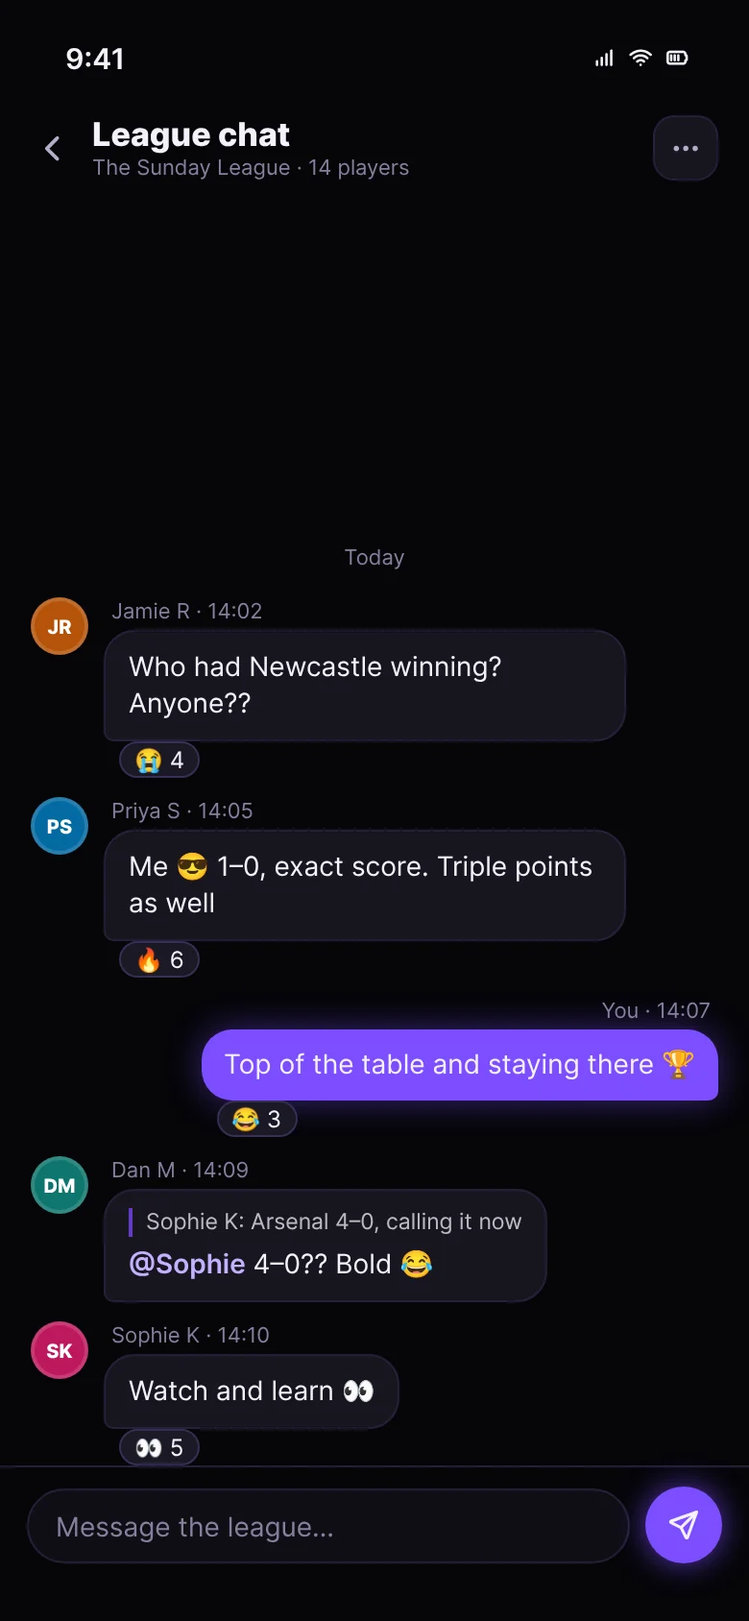
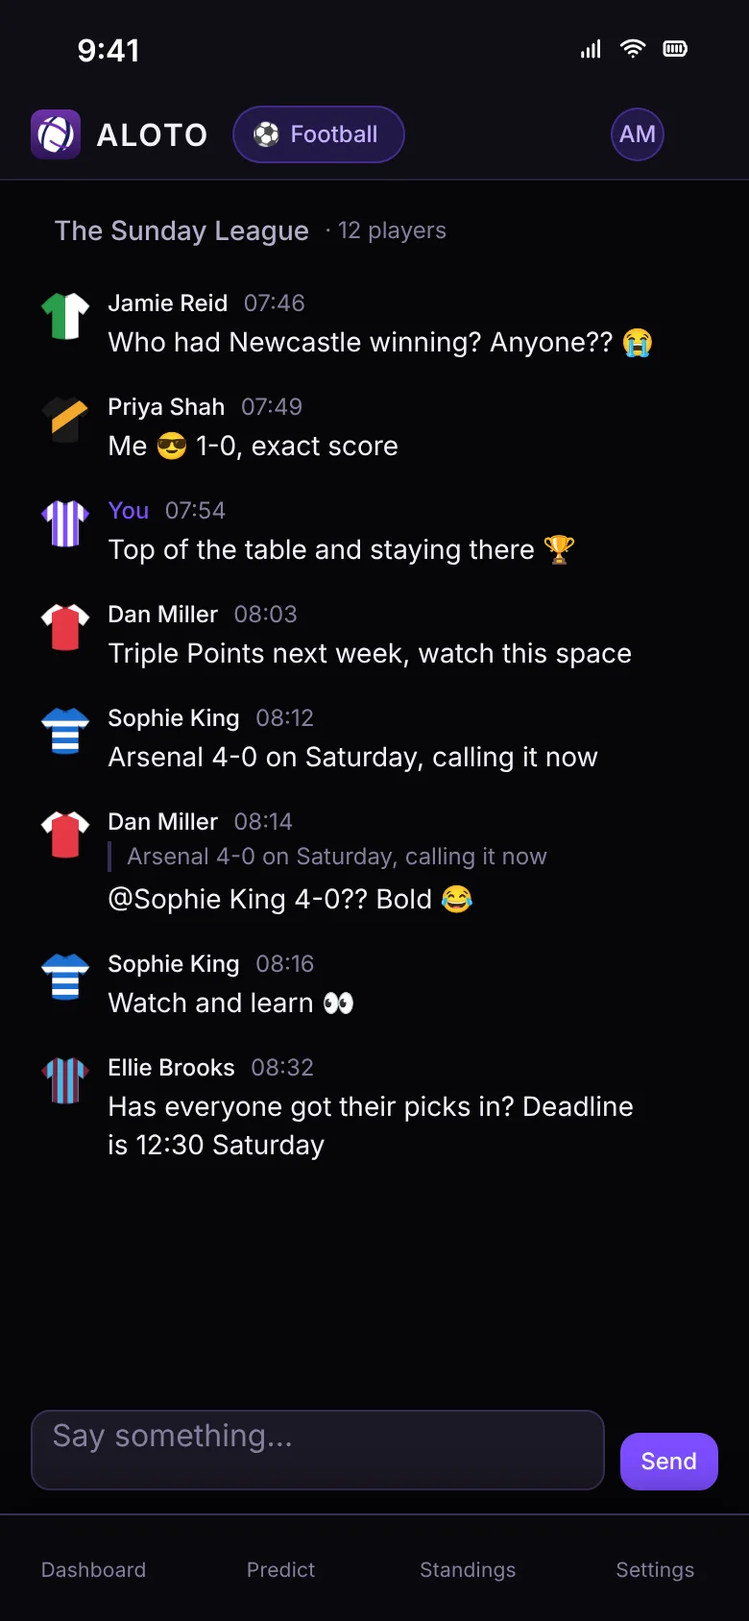
Website phone screens are now the real app rendered with sample data; lock screen matches the Live Activity; guide text corrected to match the app
Claude-Session: https://claude.ai/code/session_011trQt5Urxmf4hy4HNrPvek

diff --git a/help/football.html b/help/football.html
@@ -39,7 +39,7 @@
   <p class="lead">Predictions, points, Triple Points, the final table and cups.</p>
   <nav class="toc-pills" aria-label="On this page"><a href="#predict">Making your predictions</a><a href="#points">Points and bonuses</a><a href="#triple">Triple Points</a><a href="#season">Season predictions</a><a href="#cups">Cup competitions</a><a href="#standings">Standings and live scores</a></nav>
 </div></section>
-<section class="section"><div class="wrap guides-shot"><article class="guide shot reveal" id="predict"><div class="g-text"><h3><span class="n">01</span>Making your predictions</h3><p class="sum">Predict the score of every fixture in the gameweek. Each fixture locks at its own kick-off, not at one weekly deadline.</p><ol><li><b>Open the gameweek.</b> Predict &rarr; My Predictions. The current gameweek is shown first.</li><li><b>Enter scores.</b> Type a score for each fixture. Do some now and the rest later.</li><li><b>Save.</b> Tap Save. You can change any fixture until it kicks off.</li><li><b>See how everyone did.</b> Predict &rarr; Gameweek Results, once fixtures have kicked off.</li></ol><dl><div><dt>Hidden until kick-off</dt><dd>Nobody sees your prediction before the fixture locks. Not other players, not your admin.</dd></div><div><dt>Missed one?</dt><dd>If Saturday&rsquo;s early game has started, you can still predict Sunday&rsquo;s.</dd></div></dl></div><div class="g-shot"><div class="phone "><img src="/img/predict.webp" alt="Making your predictions in the ALOTO app" width="390" height="844" loading="lazy"></div></div></article><article class="guide shot reveal" id="points"><div class="g-text"><h3><span class="n">02</span>Points and bonuses</h3><p class="sum">Points for the right result, more for the exact score, and bonuses for a perfect gameweek. Your admin sets the values, so check your competition&rsquo;s Scoring for exact numbers.</p><dl><div><dt>Correct result</dt><dd>You called the win, draw or loss.</dd></div><div><dt>Exact score</dt><dd>Both scores right. Added on top of the result points.</dd></div><div><dt>Full house: results</dt><dd>Every result in the gameweek right. You must have predicted every fixture.</dd></div><div><dt>Full house: scores</dt><dd>Every score exactly right. Rarer, and worth more.</dd></div><div><dt>Voided fixture</dt><dd>A postponed fixture your admin voids counts for nothing and doesn&rsquo;t spoil a full house.</dd></div></dl><p class="tip">A common setup is 2 points for the result and 3 more for the exact score. Yours may differ.</p></div><div class="g-shot"><div class="phone "><img src="/img/results.webp" alt="Points and bonuses in the ALOTO app" width="390" height="844" loading="lazy"></div></div></article><article class="guide shot reveal" id="triple"><div class="g-text"><h3><span class="n">03</span>Triple Points</h3><p class="sum">A chip that triples everything you score in one football gameweek, bonuses included. You get two a season: one before 31 December and one after.</p><ol><li><b>Predict every fixture.</b> The chip only unlocks once the whole gameweek is predicted.</li><li><b>Play it.</b> Predict &rarr; My Predictions. Tap Triple Points 1 or Triple Points 2 before the gameweek starts.</li><li><b>Confirm.</b> It can&rsquo;t be undone, and it uses that half of the season&rsquo;s chip.</li></ol><dl><div><dt>Blocked gameweeks</dt><dd>Your admin can block Triple Points for a gameweek.</dd></div><div><dt>Use it or lose it</dt><dd>An unplayed chip scores nothing when its half of the season ends.</dd></div></dl></div><div class="g-shot"><div class="phone "><img src="/img/predict.webp" alt="Triple Points in the ALOTO app" width="390" height="844" loading="lazy"></div></div></article><article class="guide shot reveal" id="season"><div class="g-text"><h3><span class="n">04</span>Season predictions</h3><p class="sum">Calls you make once, before the season, scored at the end. Everything stays sealed until the deadline, then everyone can compare.</p><ol><li><b>Open them.</b> Predict &rarr; Season.</li><li><b>Final league table.</b> Drag every team into the order you think they&rsquo;ll finish.</li><li><b>Season questions.</b> Pick an answer for each one, such as league winner or Super Bowl winner.</li><li><b>Beat the deadline.</b> The countdown is on your Dashboard.</li></ol><p class="tip">Season points go into a separate Season column, added to your total at the end of the season.</p></div><div class="g-shot"><div class="phone "><img src="/img/season.webp" alt="Season predictions in the ALOTO app" width="390" height="844" loading="lazy"></div></div></article><article class="guide shot reveal" id="cups"><div class="g-text"><h3><span class="n">05</span>Cup competitions</h3><p class="sum">A knockout played alongside the league. You don&rsquo;t predict separately: your normal gameweek predictions count for both.</p><dl><div><dt>How a tie works</dt><dd>You&rsquo;re drawn against another player for a gameweek. Whoever scores more goes through.</dd></div><div><dt>Level scores</dt><dd>A replay in the next gameweek.</dd></div><div><dt>Group + Knockout</dt><dd>A round-robin group stage first, then the top players go into the bracket.</dd></div></dl><p class="tip">Follow the draw under Standings &rarr; Cup.</p></div><div class="g-shot"><div class="phone "><img src="/img/cup.webp" alt="Cup competitions in the ALOTO app" width="390" height="844" loading="lazy"></div></div></article><article class="guide shot reveal" id="standings"><div class="g-text"><h3><span class="n">06</span>Standings and live scores</h3><p class="sum">Standings shows where you are while the games are on, with arrows for who is moving up and down.</p><ol><li><b>Overall.</b> Standings &rarr; Overall for the season-long table.</li><li><b>Monthly.</b> Standings &rarr; Monthly, so somebody wins every month.</li><li><b>Cup.</b> Standings &rarr; Cup for the draw, ties and results.</li><li><b>Season.</b> Standings &rarr; Season for the season predictions.</li></ol><dl><div><dt>Live points</dt><dd>Added as goals go in. They become final when the result is confirmed.</dd></div><div><dt>Lock screen</dt><dd>On iPhone, your live score, points and position show on the lock screen.</dd></div></dl></div><div class="g-shot"><div class="phone "><img src="/img/table.webp" alt="Standings and live scores in the ALOTO app" width="390" height="844" loading="lazy"></div></div></article></div></section>
+<section class="section"><div class="wrap guides-shot"><article class="guide shot reveal" id="predict"><div class="g-text"><h3><span class="n">01</span>Making your predictions</h3><p class="sum">Predict the score of every fixture in the gameweek. Each fixture locks at its own kick-off, not at one weekly deadline.</p><ol><li><b>Open the gameweek.</b> Predict &rarr; My Predictions. The current gameweek is shown first.</li><li><b>Enter scores.</b> Type a score for each fixture. Do some now and the rest later.</li><li><b>Save.</b> Tap Save. You can change any fixture until it kicks off.</li><li><b>See how everyone did.</b> Predict &rarr; Gameweek Results, once fixtures have kicked off.</li></ol><dl><div><dt>Hidden until kick-off</dt><dd>Nobody sees your prediction before the fixture locks. Not other players, not your admin.</dd></div><div><dt>Missed one?</dt><dd>If Saturday&rsquo;s early game has started, you can still predict Sunday&rsquo;s.</dd></div></dl></div><div class="g-shot"><div class="phone "><img src="/img/predict.webp" alt="Making your predictions in the ALOTO app" width="390" height="844" loading="lazy"></div></div></article><article class="guide shot reveal" id="points"><div class="g-text"><h3><span class="n">02</span>Points and bonuses</h3><p class="sum">Points for the right result, more for the exact score, and bonuses for a perfect gameweek. Your admin sets the values, so check your competition&rsquo;s Scoring for exact numbers.</p><dl><div><dt>Correct result</dt><dd>You called the win, draw or loss.</dd></div><div><dt>Exact score</dt><dd>Both scores right. Added on top of the result points.</dd></div><div><dt>Full house: results</dt><dd>Every result in the gameweek right. You must have predicted every fixture.</dd></div><div><dt>Full house: scores</dt><dd>Every score exactly right. Rarer, and worth more.</dd></div><div><dt>Voided fixture</dt><dd>A postponed fixture your admin voids counts for nothing and doesn&rsquo;t spoil a full house.</dd></div></dl><p class="tip">A common setup is 2 points for the result and 3 more for the exact score. Yours may differ.</p></div><div class="g-shot"><div class="phone "><img src="/img/results.webp" alt="Points and bonuses in the ALOTO app" width="390" height="844" loading="lazy"></div></div></article><article class="guide shot reveal" id="triple"><div class="g-text"><h3><span class="n">03</span>Triple Points</h3><p class="sum">A chip that triples everything you score in one football gameweek, bonuses included. You get two a season: one before 31 December and one after.</p><ol><li><b>Predict every fixture.</b> The chip only unlocks once the whole gameweek is predicted.</li><li><b>Play it.</b> Predict &rarr; My Predictions. Tap Triple Points 1 or Triple Points 2 before the gameweek starts.</li><li><b>Confirm.</b> It can&rsquo;t be undone, and it uses that half of the season&rsquo;s chip.</li></ol><dl><div><dt>Blocked gameweeks</dt><dd>Your admin can block Triple Points for a gameweek.</dd></div><div><dt>Use it or lose it</dt><dd>An unplayed chip scores nothing when its half of the season ends.</dd></div></dl></div><div class="g-shot"><div class="phone "><img src="/img/predict.webp" alt="Triple Points in the ALOTO app" width="390" height="844" loading="lazy"></div></div></article><article class="guide shot reveal" id="season"><div class="g-text"><h3><span class="n">04</span>Season predictions</h3><p class="sum">Calls you make once, before the season, scored at the end. Everything stays sealed until the deadline, then everyone can compare.</p><ol><li><b>Open them.</b> Predict &rarr; Season.</li><li><b>Final league table.</b> Choose a team for each place, from 1st to last. Clear all starts again.</li><li><b>Season questions.</b> Pick an answer for each one, such as league winner or Super Bowl winner.</li><li><b>Beat the deadline.</b> The countdown is on your Dashboard.</li></ol><p class="tip">Season points go into a separate Season column, added to your total at the end of the season.</p></div><div class="g-shot"><div class="phone "><img src="/img/season.webp" alt="Season predictions in the ALOTO app" width="390" height="844" loading="lazy"></div></div></article><article class="guide shot reveal" id="cups"><div class="g-text"><h3><span class="n">05</span>Cup competitions</h3><p class="sum">A knockout played alongside the league. You don&rsquo;t predict separately: your normal gameweek predictions count for both.</p><dl><div><dt>How a tie works</dt><dd>You&rsquo;re drawn against another player for a gameweek. Whoever scores more goes through.</dd></div><div><dt>Level scores</dt><dd>A replay in the next gameweek.</dd></div><div><dt>Group + Knockout</dt><dd>A round-robin group stage first, then the top players go into the bracket.</dd></div></dl><p class="tip">Follow the draw under Standings &rarr; Cup.</p></div><div class="g-shot"><div class="phone "><img src="/img/cup.webp" alt="Cup competitions in the ALOTO app" width="390" height="844" loading="lazy"></div></div></article><article class="guide shot reveal" id="standings"><div class="g-text"><h3><span class="n">06</span>Standings and live scores</h3><p class="sum">Standings shows where you are while the games are on, with arrows for who is moving up and down.</p><ol><li><b>Overall.</b> Standings &rarr; Overall for the season-long table.</li><li><b>Monthly.</b> Standings &rarr; Monthly, so somebody wins every month.</li><li><b>Cup.</b> Standings &rarr; Cup for the draw, ties and results.</li><li><b>Season.</b> Standings &rarr; Season for the season predictions.</li></ol><dl><div><dt>Live points</dt><dd>Added as goals go in. They become final when the result is confirmed.</dd></div><div><dt>Lock screen</dt><dd>On iPhone, your live points and league position show on the lock screen while the gameweek is in play.</dd></div></dl></div><div class="g-shot"><div class="phone "><img src="/img/live.webp" alt="Standings and live scores in the ALOTO app" width="390" height="844" loading="lazy"></div></div></article></div></section>
 <section class="section alt"><div class="wrap">
   <div class="note-box reveal" style="max-width:860px;margin:0 auto">
     <h3>More help</h3>

diff --git a/help/nfl.html b/help/nfl.html
@@ -39,7 +39,7 @@
   <p class="lead">Weekly score picks, margin scoring and season questions.</p>
   <nav class="toc-pills" aria-label="On this page"><a href="#nfl">NFL picks</a><a href="#nfl-season">NFL season questions</a></nav>
 </div></section>
-<section class="section"><div class="wrap guides-shot"><article class="guide shot reveal" id="nfl"><div class="g-text"><h3><span class="n">01</span>NFL picks</h3><p class="sum">Predict the score of every game each week. Points for the right winner, more for each team score you get exactly, more the closer your winning margin is, and the most for the exact score.</p><ol><li><b>Switch to NFL.</b> Tap the sport chooser in the top bar.</li><li><b>Open the week.</b> Predict &rarr; This week.</li><li><b>Enter both scores.</b> The margin you&rsquo;re calling shows underneath, for example &ldquo;Kansas City by 7&rdquo;.</li><li><b>Save.</b> Each game locks at its own kick-off, from Thursday night to Monday.</li></ol><dl><div><dt>Scoring</dt><dd>Points add up. Right winner 2, plus 5 for each team whose score you get exactly, plus your margin: exact 12, within 2 is 10, within 4 is 8, within 7 is 6, within 10 is 4, within 14 is 2. An exact score is 24. Your league&rsquo;s own numbers are shown above the games.</dd></div><div><dt>Ties and overtime</dt><dd>Calling a tie that ends tied counts as the right winner. Final scores include overtime.</dd></div><div><dt>No chips</dt><dd>Triple Points and full house bonuses are football only.</dd></div></dl></div><div class="g-shot"><div class="phone "><img src="/img/nfl.webp" alt="NFL picks in the ALOTO app" width="390" height="844" loading="lazy"></div></div></article><article class="guide shot reveal" id="nfl-season"><div class="g-text"><h3><span class="n">02</span>NFL season questions</h3><p class="sum">Three questions are free in every NFL league. Others are added by an admin with Pro.</p><ol><li><b>Open them.</b> Predict &rarr; Season tab, in your NFL league.</li><li><b>Make your picks.</b> Choose a team for each question before the deadline.</li></ol><dl><div><dt>Free in every league</dt><dd>Super Bowl Winner, AFC Champion and NFC Champion.</dd></div><div><dt>With Pro</dt><dd>NFL MVP, the division winners, and questions your admin writes.</dd></div></dl></div><div class="g-shot"><div class="phone "><img src="/img/nflseason.webp" alt="NFL season questions in the ALOTO app" width="390" height="844" loading="lazy"></div></div></article></div></section>
+<section class="section"><div class="wrap guides-shot"><article class="guide shot reveal" id="nfl"><div class="g-text"><h3><span class="n">01</span>NFL picks</h3><p class="sum">Predict the score of every game each week. Points for the right winner, more for each team score you get exactly, more the closer your winning margin is, and the most for the exact score.</p><ol><li><b>Switch to NFL.</b> Tap the sport chooser in the top bar.</li><li><b>Open the week.</b> Predict &rarr; This week.</li><li><b>Enter both scores.</b> The margin you&rsquo;re calling shows underneath, for example &ldquo;Kansas City Chiefs by 7&rdquo;.</li><li><b>Save.</b> Each game locks at its own kick-off, from Thursday night to Monday.</li></ol><dl><div><dt>Scoring</dt><dd>Points add up. Right winner 2, plus 5 for each team whose score you get exactly, plus your margin: exact 12, within 2 is 10, within 4 is 8, within 7 is 6, within 10 is 4, within 14 is 2. An exact score is 24. Your league&rsquo;s own numbers are shown above the games.</dd></div><div><dt>Ties and overtime</dt><dd>Calling a tie that ends tied counts as the right winner. Final scores include overtime.</dd></div><div><dt>No chips</dt><dd>Triple Points and full house bonuses are football only.</dd></div></dl></div><div class="g-shot"><div class="phone "><img src="/img/nfl.webp" alt="NFL picks in the ALOTO app" width="390" height="844" loading="lazy"></div></div></article><article class="guide shot reveal" id="nfl-season"><div class="g-text"><h3><span class="n">02</span>NFL season questions</h3><p class="sum">Three questions are free in every NFL league. Others are added by an admin with Pro.</p><ol><li><b>Open them.</b> Predict &rarr; Season tab, in your NFL league.</li><li><b>Make your picks.</b> Choose a team for each question before the deadline.</li></ol><dl><div><dt>Free in every league</dt><dd>Super Bowl Winner, AFC Champion and NFC Champion.</dd></div><div><dt>With Pro</dt><dd>NFL MVP, the division winners, and questions your admin writes.</dd></div></dl></div><div class="g-shot"><div class="phone "><img src="/img/nflseason.webp" alt="NFL season questions in the ALOTO app" width="390" height="844" loading="lazy"></div></div></article></div></section>
 <section class="section alt"><div class="wrap">
   <div class="note-box reveal" style="max-width:860px;margin:0 auto">
     <h3>More help</h3>

diff --git a/index.html b/index.html
@@ -50,7 +50,7 @@
       <div class="phone p1"><img src="/img/predict.webp" alt="ALOTO predictions screen with scores entered for the gameweek" width="390" height="844" loading="eager"></div>
       <div class="phone p2"><img src="/img/dash.webp" alt="ALOTO dashboard showing first place, total points and a live match" width="390" height="844" loading="eager"></div>
       <div class="chip c1"><div class="l">Exact score</div><div class="v">2&ndash;1<small>+5 pts</small></div></div>
-      <div class="chip c2"><div class="l">League position</div><div class="v">1st<small class="up">&#9650;2</small></div></div>
+      <div class="chip c2"><div class="l">Your rank</div><div class="v">1st<small>of 12</small></div></div>
     </div>
   </div>
 </section>
@@ -109,7 +109,7 @@
 
 <section class="section"><div class="wrap">
   <div class="rail-wrap showcase reveal" data-rail><div class="tabs pills"><button type="button" aria-selected="true">Live scores</button><button type="button" aria-selected="false">League chat</button><button type="button" aria-selected="false">Cups</button></div><div class="rail slides" tabindex="0">
-    <article class="slide"><div class="slide-text"><h2>Live on your <span class="accent">lock screen</span></h2><p class="lead">Your score, live points and league position update as the match goes on, without opening the app.</p><ul class="ticks"><li><b>Live points</b> as each goal goes in</li><li><b>Your position</b> moving up and down the table</li><li><b>Your pick</b> next to the real score</li><li><b>Reminders</b> before your gameweek locks</li></ul></div><div class="split-media"><div class="glow"></div><div class="phone "><img src="/img/lock.webp" alt="ALOTO live score on an iPhone lock screen" width="390" height="844" loading="lazy"></div></div></article>
+    <article class="slide"><div class="slide-text"><h2>Live on your <span class="accent">lock screen</span></h2><p class="lead">Your live points, the gameweek and your league position update while the matches are on, without opening the app.</p><ul class="ticks"><li><b>Live points</b> as each goal goes in</li><li><b>Your position</b> moving up and down the table</li><li><b>Matches in play</b> counted on the card</li><li><b>Reminders</b> before your gameweek locks</li></ul></div><div class="split-media"><div class="glow"></div><div class="phone "><img src="/img/lock.webp" alt="ALOTO live score on an iPhone lock screen" width="390" height="844" loading="lazy"></div></div></article>
     <article class="slide"><div class="slide-text"><h2>The group chat, <span class="accent">where it belongs</span></h2><p class="lead">Every competition has its own chat, right next to the table it&rsquo;s arguing about.</p><ul class="ticks"><li><b>Replies and @mentions</b> to keep the conversation going</li><li><b>Reactions</b> for the exact score nobody saw coming</li><li><b>Admin moderation</b> remove messages and ban from chat</li><li><b>Report and block</b> for everyone</li></ul></div><div class="split-media"><div class="glow"></div><div class="phone "><img src="/img/chat.webp" alt="ALOTO league chat" width="390" height="844" loading="lazy"></div></div></article>
     <article class="slide"><div class="slide-text"><h2>Cups that <span class="accent">run themselves</span></h2><p class="lead">Head-to-head ties decided on gameweek points. No extra predictions: your league form carries you through or knocks you out.</p><ul class="ticks"><li><b>Knockout</b> drawn on gameweek scores</li><li><b>Group + Knockout</b> round-robin groups first</li><li><b>Replays</b> when scores are level</li><li><b>The draw</b> and results, all in Standings</li></ul></div><div class="split-media"><div class="glow"></div><div class="phone "><img src="/img/cup.webp" alt="ALOTO cup quarter-finals" width="390" height="844" loading="lazy"></div></div></article>
   </div><div class="rail-nav"><button type="button" class="prev" aria-label="Back"><svg viewBox="0 0 24 24" width="20" height="20" fill="none" stroke="currentColor" stroke-width="2.4" aria-hidden="true"><path d="M15 5l-7 7 7 7"/></svg></button><div class="bar"><i></i></div><button type="button" class="next" aria-label="Next"><svg viewBox="0 0 24 24" width="20" height="20" fill="none" stroke="currentColor" stroke-width="2.4" aria-hidden="true"><path d="M9 5l7 7-7 7"/></svg></button></div></div>

diff --git a/tour.html b/tour.html
@@ -54,9 +54,9 @@
         <div class="eyebrow">Live scores</div>
         <h2>Every goal, <span class="accent">every point.</span></h2>
         <p class="lead">Scores come in automatically. Your points, the table and the cup ties update while the games are still being played.</p>
-        <ul class="ticks"><li><b>Live table</b> with movement arrows</li><li><b>Lock screen</b> live score, points and position on iPhone</li><li><b>Gameweek results</b> see what everyone predicted once it locks</li><li><b>No admin work</b> results score themselves</li></ul>
+        <ul class="ticks"><li><b>Live table</b> with movement arrows</li><li><b>Lock screen</b> live points and position on iPhone</li><li><b>Gameweek results</b> see what everyone predicted once it locks</li><li><b>No admin work</b> results score themselves</li></ul>
       </div>
-      <div class="split-media pair"><div class="glow"></div><div class="phone "><img src="/img/lock.webp" alt="ALOTO live score on the lock screen" width="390" height="844" loading="lazy"></div><div class="phone second"><img src="/img/table.webp" alt="ALOTO live table" width="390" height="844" loading="lazy"></div></div>
+      <div class="split-media pair"><div class="glow"></div><div class="phone "><img src="/img/lock.webp" alt="ALOTO live points on the lock screen" width="390" height="844" loading="lazy"></div><div class="phone second"><img src="/img/live.webp" alt="ALOTO live standings" width="390" height="844" loading="lazy"></div></div>
     </div>
   <div class="split reveal" id="leagues" style="scroll-margin-top:110px">
       <div>
@@ -74,7 +74,7 @@
         <p class="lead">Put every team in the order you think they&rsquo;ll finish, and answer the season&rsquo;s big questions. Everything stays sealed until the deadline.</p>
         <ul class="ticks"><li><b>Final league table</b> points for every team in the right place</li><li><b>Season questions</b> league winner, top scorer and your own</li><li><b>NFL</b> Super Bowl, AFC and NFC champions free</li><li><b>Revealed together</b> once the deadline passes</li></ul>
       </div>
-      <div class="split-media"><div class="glow"></div><div class="phone "><img src="/img/dash.webp" alt="ALOTO dashboard with season predictions" width="390" height="844" loading="lazy"></div></div>
+      <div class="split-media"><div class="glow"></div><div class="phone "><img src="/img/season.webp" alt="ALOTO final league table prediction" width="390" height="844" loading="lazy"></div></div>
     </div>
   <div class="split reveal" id="chat" style="scroll-margin-top:110px">
       <div>

diff --git a/nfl.html b/nfl.html
@@ -44,7 +44,7 @@
 <section class="section"><div class="wrap">
   <div class="section-head center reveal"><div class="eyebrow">How a week works</div><h2>Every game. <span class="accent">Its own kick-off.</span></h2></div>
   <div class="cards">
-    <div class="card reveal"><div class="num">01</div><h3>Enter both scores</h3><p>The margin you&rsquo;re calling shows underneath, for example &ldquo;Chiefs by 7&rdquo;.</p></div>
+    <div class="card reveal"><div class="num">01</div><h3>Enter both scores</h3><p>The margin you&rsquo;re calling shows underneath, for example &ldquo;Kansas City Chiefs by 7&rdquo;.</p></div>
     <div class="card reveal"><div class="num">02</div><h3>Locks at kick-off</h3><p>Each game locks on its own, from Thursday night through to Monday.</p></div>
     <div class="card reveal"><div class="num">03</div><h3>Overtime counts</h3><p>Final scores include overtime. Calling a tie that ends tied counts as the right winner.</p></div>
   </div>
@@ -73,7 +73,7 @@
         <p class="lead">Scores come in automatically, and your points and position update while the games are on. NFL reminders open straight into your NFL league.</p>
         <ul class="ticks"><li><b>Live table</b> with movement arrows</li><li><b>Reminders</b> worded for the NFL</li><li><b>League chat</b> for Sunday night arguments</li><li><b>One account</b> football and NFL side by side</li></ul>
       </div>
-      <div class="split-media"><div class="glow"></div><div class="phone "><img src="/img/table.webp" alt="ALOTO live table" width="390" height="844" loading="lazy"></div></div>
+      <div class="split-media"><div class="glow"></div><div class="phone "><img src="/img/nfldash.webp" alt="ALOTO NFL dashboard" width="390" height="844" loading="lazy"></div></div>
     </div>
 </div></section>
 

diff --git a/football.html b/football.html
@@ -79,7 +79,7 @@
       <div>
         <div class="eyebrow">Season predictions</div>
         <h2>Call the final table <span class="accent">in August.</span></h2>
-        <p class="lead">Drag every team into the order you think they&rsquo;ll finish. It stays sealed until the deadline, then everyone can compare.</p>
+        <p class="lead">Pick a team for every place from 1st to last. It stays sealed until the deadline, then everyone can compare.</p>
         <ul class="ticks"><li><b>Final league table</b> points for every team in the right place</li><li><b>Season questions</b> league winner, top scorer and your own, with Pro</li><li><b>Separate Season column</b> added to your total at the end</li><li><b>Countdown</b> on your Dashboard</li></ul>
       </div>
       <div class="split-media"><div class="glow"></div><div class="phone "><img src="/img/season.webp" alt="ALOTO final league table prediction" width="390" height="844" loading="lazy"></div></div>
